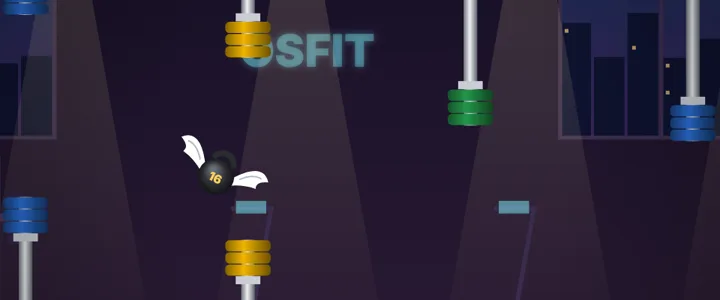
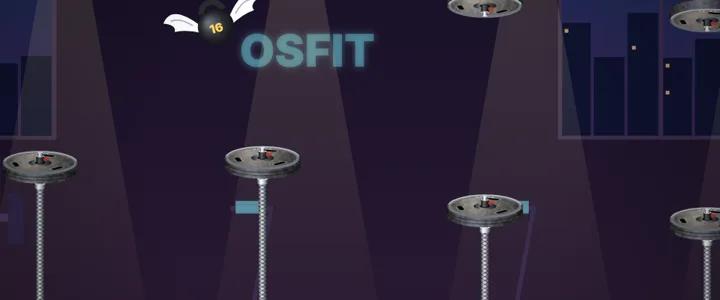
Kettlebell Bird: obstáculos finales (barra moleteada con disco de hierro con agarraderas, luz cálida); el choque coincide con lo que se ve; sin letreros de neón seguidos
Claude-Session: https://claude.ai/code/session_01XsEJr2BEv4DBCCRFhTNCkD

diff --git a/web/src/ui/kettlebellBird.ts b/web/src/ui/kettlebellBird.ts
@@ -1,5 +1,5 @@
 import {
-  ALTO, ANCHO_BARRA, PISO, RADIO, aletear, avanzar, nuevoVuelo, type Vuelo,
+  ALTO, ANCHO_DISCO, ANCHO_TUBO, PISO, RADIO, aletear, avanzar, nuevoVuelo, type Vuelo,
 } from "../kettlebellBird";
 import { conPartida, htmlLista, type ApiJuego, type EnvioPartida, type TablaDiscos } from "./juegoDiscos";
 
@@ -271,7 +271,6 @@ function arrancar(): void {
 
 // ── Dibujo ───────────────────────────────────────────────────────────────────
 
-const COLORES = ["#d6372c", "#2a6fd6", "#f0b400", "#24964a"];
 const mod = (a: number, b: number) => ((a % b) + b) % b;
 /** Un número fijo por posición, para que cada ventana o máquina sea siempre la misma. */
 const ruido = (n: number) => mod(Math.sin(n * 12.9898) * 43758.5453, 1);
@@ -313,7 +312,8 @@ function dibujar(): void {
   const paso1 = 70 * e;
   for (let i = Math.floor(lejos / paso1) - 1; i * paso1 - lejos < W + paso1; i++) {
     const x = i * paso1 - lejos;
-    if (ruido(i) < 0.62) {
+    // Ventanal, o un letrero de neón, pero nunca dos letreros seguidos.
+    if (ruido(i) < 0.62 || ruido(i - 1) >= 0.62) {
       const vx = x + 8 * e, vy = 10 * e, vw = 40 * e, vh = 34 * e;
       const cielo = c.createLinearGradient(0, vy, 0, vy + vh);
       cielo.addColorStop(0, "#1b2a55"); cielo.addColorStop(1, "#3a2457");
@@ -403,12 +403,10 @@ function dibujar(): void {
 
   // Las barras: una barra de acero con sus discos en la punta, colgando del techo y parada en el piso.
   for (const b of vuelo.barras) {
-    const x = b.x * e, w = ANCHO_BARRA * e;
+    const x = b.x * e, w = ANCHO_DISCO * e;
     const arriba = (b.centro - b.hueco / 2) * e, abajo = (b.centro + b.hueco / 2) * e;
-    // El color sale de la altura de su hueco: es fijo para cada barra mientras cruza.
-    const color = COLORES[Math.floor(ruido(Math.round(b.centro * 100)) * 4)] ?? COLORES[0]!;
-    pintarObstaculo(c, x, w, -10, arriba, true, color, e);
-    pintarObstaculo(c, x, w, abajo, piso, false, color, e);
+    pintarBarraConDisco(c, x, w, -10, arriba, true, e);
+    pintarBarraConDisco(c, x, w, abajo, piso, false, e);
   }
 
   // La kettlebell.
@@ -431,19 +429,6 @@ function dibujar(): void {
   const vin = c.createRadialGradient(W / 2, H / 2, Math.min(W, H) * 0.4, W / 2, H / 2, Math.max(W, H) * 0.8);
   vin.addColorStop(0, "rgba(0, 0, 0, 0)"); vin.addColorStop(1, "rgba(0, 0, 0, 0.45)");
   c.fillStyle = vin; c.fillRect(0, 0, W, H);
-}
-
-// TEMPORAL: selector para comparar las propuestas de discos (P1, P2, P3).
-type Estilo = "p1" | "p2" | "p3";
-function estiloObstaculo(): Estilo {
-  try {
-    const v = globalThis.localStorage?.getItem("osfit:kb-barras");
-    return v === "p2" ? "p2" : v === "p3" ? "p3" : "p1";
-  } catch { return "p1"; }
-}
-
-function pintarObstaculo(c: CanvasRenderingContext2D, x: number, w: number, y0: number, y1: number, cuelga: boolean, _color: string, e: number): void {
-  pintarBarraConDiscos(c, x, w, y0, y1, cuelga, e, estiloObstaculo());
 }
 
 /** Una textura de grano (caucho o hierro martelinado), hecha una vez y repetida. */
@@ -637,34 +622,27 @@ function pintarDisco3D(c: CanvasRenderingContext2D, cx: number, cy: number, d: D
 }
 
 /**
- * P · La barra que te gustó con discos nuevos (propuestas P1, P2, P3): la manga sale de la orilla
- * del hueco con el seguro y uno o dos discos grandes, y la barra moleteada sigue hasta el techo o
- * el piso.
+ * El obstáculo (entrenador, 2026-11-24, discos "P2"): la barra olímpica moleteada y, en la punta
+ * del lado del hueco, un disco de hierro fundido con sus tres agarraderas, visto un poco desde
+ * arriba (el de abajo) o desde abajo (el que cuelga), con luz cálida de lámpara. Las medidas son
+ * las de la lógica (`ANCHO_DISCO`, `ANCHO_TUBO`, `DISCO_HASTA`): se ve lo que se choca.
  */
-function pintarBarraConDiscos(c: CanvasRenderingContext2D, x: number, w: number, y0: number, y1: number, cuelga: boolean, e: number, estilo: Estilo): void {
+function pintarBarraConDisco(c: CanvasRenderingContext2D, x: number, w: number, y0: number, y1: number, cuelga: boolean, e: number): void {
   const cx = x + w / 2;
-  const discos: Disco3D[] = estilo === "p2"
-    ? [{ r: w * 0.85, incl: 0.42, grueso: 1.9 * e, material: "hierro", color: "#3b3d42", kg: "20", luz: "calida", agarraderas: true }]
-    : estilo === "p3"
-      ? [
-        { r: w * 0.78, incl: 0.13, grueso: 3.3 * e, material: "bumper", color: "#1f1f24", kg: "20", luz: "contraluz", textoCanto: true },
-        { r: w * 0.78, incl: 0.13, grueso: 3.3 * e, material: "bumper", color: "#1f1f24", kg: "20", luz: "contraluz", textoCanto: true },
-      ]
-      : [{ r: w * 0.85, incl: 0.38, grueso: 2.6 * e, material: "bumper", color: "#2a6fd6", kg: "20", luz: "estudio" }];
-  // Desde la orilla: tapa de la manga, seguro, discos, manga, hombro; luego la barra.
-  const tapa = 0.7 * e, seguro = 1.3 * e, manga = 2.2 * e, hombro = 0.9 * e;
+  const disco: Disco3D = { r: w / 2, incl: 0.3, grueso: 1.9 * e, material: "hierro", color: "#3b3d42", kg: "20", luz: "calida", agarraderas: true };
+  // Desde la orilla del hueco: tapa de la manga, seguro, disco, manga, hombro; luego la barra.
   const dir = cuelga ? -1 : 1;
   let p = cuelga ? y1 : y0;
   const tramo = (h: number) => { const a = cuelga ? p - h : p; const b = cuelga ? p : p + h; p += dir * h; return [a, b] as const; };
-  const [tA, tB] = tramo(tapa);
-  const [sA, sB] = tramo(seguro);
-  const lugares = discos.map((d) => tramo(d.grueso));
-  const [mA, mB] = tramo(manga);
-  const [hA, hB] = tramo(hombro);
+  const [tA, tB] = tramo(0.7 * e);
+  const [sA, sB] = tramo(1.3 * e);
+  const [dA, dB] = tramo(disco.grueso);
+  const [mA, mB] = tramo(2.2 * e);
+  const [hA, hB] = tramo(0.9 * e);
   const barraA = cuelga ? y0 : p, barraB = cuelga ? p : y1;
 
-  // La barra moleteada (igual que antes: la que te gustó).
-  const bw = w * 0.17;
+  // La barra moleteada.
+  const bw = ANCHO_TUBO * e * 0.64;
   c.fillStyle = gradCilindro(c, cx - bw / 2, cx + bw / 2, ["#4a4e55", "#b4b9c0", "#eef0f3", "#33363b"]);
   c.fillRect(cx - bw / 2, barraA, bw, barraB - barraA);
   c.save();
@@ -675,26 +653,22 @@ function pintarBarraConDiscos(c: CanvasRenderingContext2D, x: number, w: number,
     c.beginPath(); c.moveTo(cx + bw / 2, yy); c.lineTo(cx - bw / 2, yy + bw * 0.55); c.stroke();
   }
   c.restore();
-  if (!cuelga) pintarSombra(c, cx, y1, w * 0.5, w * 0.1, 0.6);
+  if (!cuelga) pintarSombra(c, cx, y1, w * 0.3, w * 0.06, 0.6);
 
-  // Del fondo a la cámara: hombro, manga, discos (el más lejano primero), seguro, tapa.
+  // Del fondo a la cámara: hombro, manga, disco, seguro, tapa.
   const caraArriba = !cuelga;
+  const u = ANCHO_TUBO * e;
   const cil = (r: number, a: number, b: number, grad: [string, string, string, string]) =>
     cilindro(c, cx, r, a, b, caraArriba, gradCilindro(c, cx - r, cx + r, grad), (cy) => {
       c.fillStyle = "#e3e6ea"; c.beginPath(); c.ellipse(cx, cy, r, r * INCL, 0, 0, Math.PI * 2); c.fill();
     });
-  cil(w * 0.24, hA, hB, CROMO);
-  cil(w * 0.11, mA, mB, CROMO);
-  for (let k = discos.length - 1; k >= 0; k--) {
-    const d = discos[k]!;
-    const [a, b] = lugares[k]!;
-    // Sombra que deja en el disco de atrás (oclusión).
-    pintarSombra(c, cx, caraArriba ? b : a, d.r * 1.02, d.r * d.incl * 1.1, 0.45);
-    pintarDisco3D(c, cx, caraArriba ? a : b, d, caraArriba);
-  }
-  cil(w * 0.17, sA, sB, ["#0d0e10", "#3a3d44", "#5a5e66", "#08090a"]);
-  c.fillStyle = "#c9302a"; caja2(c, cx + w * 0.14, sA + (sB - sA) * 0.25, w * 0.26, (sB - sA) * 0.42, 2); c.fill();
-  cil(w * 0.11, tA, tB, CROMO);
+  cil(u * 0.45, hA, hB, CROMO);
+  cil(u * 0.21, mA, mB, CROMO);
+  pintarSombra(c, cx, caraArriba ? dB : dA, disco.r * 1.02, disco.r * disco.incl * 1.1, 0.45);
+  pintarDisco3D(c, cx, caraArriba ? dA : dB, disco, caraArriba);
+  cil(u * 0.32, sA, sB, ["#0d0e10", "#3a3d44", "#5a5e66", "#08090a"]);
+  c.fillStyle = "#c9302a"; caja2(c, cx + u * 0.26, sA + (sB - sA) * 0.25, u * 0.5, (sB - sA) * 0.42, 2); c.fill();
+  cil(u * 0.21, tA, tB, CROMO);
 }
 
 function shade(hex: string, f: number): string {

diff --git a/web/src/kettlebellBird.ts b/web/src/kettlebellBird.ts
@@ -19,8 +19,17 @@ export const RADIO = 3.6;
 export const GRAVEDAD = 250;
 export const IMPULSO = -82;
 export const CAIDA_MAXIMA = 130;
-/** Lo grueso de una barra con sus discos. */
-export const ANCHO_BARRA = 9;
+/**
+ * La forma de cada obstáculo, como se ve (entrenador, 2026-11-24, discos "P2"): una barra
+ * delgada (`ANCHO_TUBO`, con su manga y su seguro) y, cerca de la punta, un disco de hierro
+ * ancho (`ANCHO_DISCO`) entre `DISCO_DESDE` y `DISCO_HASTA` desde la orilla del hueco. Se choca
+ * con lo que se ve: el disco solo en su zona, la barra en el resto.
+ */
+export const ANCHO_DISCO = 15;
+export const ANCHO_TUBO = 2.4;
+/** Un poco antes de la orilla: la cara del disco asoma hacia el hueco. */
+export const DISCO_DESDE = -0.3;
+export const DISCO_HASTA = 3.9;
 /** De una barra a la siguiente. */
 export const SEPARACION = 44;
 
@@ -92,6 +101,18 @@ export function choca(cx: number, cy: number, r: number, x: number, y: number, w
   return (cx - px) ** 2 + (cy - py) ** 2 < r * r;
 }
 
+/** ¿Toca la barra de arriba o la de abajo (su tubo o su disco)? */
+export function chocaConBarra(cx: number, cy: number, r: number, b: Barra): boolean {
+  const arriba = b.centro - b.hueco / 2, abajo = b.centro + b.hueco / 2;
+  const tx = b.x + (ANCHO_DISCO - ANCHO_TUBO) / 2;
+  // El disco se angosta hacia su cara (es un cilindro visto en 3/4): su zona es un poco más angosta.
+  const dw = ANCHO_DISCO * 0.88, dx = b.x + (ANCHO_DISCO - dw) / 2, dh = DISCO_HASTA - DISCO_DESDE;
+  return choca(cx, cy, r, tx, -50, ANCHO_TUBO, arriba + 50)
+    || choca(cx, cy, r, tx, abajo, ANCHO_TUBO, PISO - abajo)
+    || choca(cx, cy, r, dx, arriba - DISCO_HASTA, dw, dh)
+    || choca(cx, cy, r, dx, abajo + DISCO_DESDE, dw, dh);
+}
+
 /** Avanza `dt` segundos. Devuelve "punto" al pasar una barra y "fin" al chocar. */
 export function avanzar(v: Vuelo, dt: number): "punto" | "fin" | null {
   if (v.terminada) return null;
@@ -102,7 +123,7 @@ export function avanzar(v: Vuelo, dt: number): "punto" | "fin" | null {
   const vel = velocidad(v.puntos);
   v.recorrido += vel * dt;
   for (const b of v.barras) b.x -= vel * dt;
-  if (v.barras.length > 0 && v.barras[0]!.x + ANCHO_BARRA < -10) v.barras.shift();
+  if (v.barras.length > 0 && v.barras[0]!.x + ANCHO_DISCO < -10) v.barras.shift();
   const ultima = v.barras[v.barras.length - 1];
   if (!ultima || ultima.x < v.vistaAncho + 10) {
     v.barras.push(nuevaBarra((ultima?.x ?? v.vistaAncho) + SEPARACION, ultima, v.puntos, v.azar));
@@ -114,12 +135,11 @@ export function avanzar(v: Vuelo, dt: number): "punto" | "fin" | null {
   }
   let evento: "punto" | null = null;
   for (const b of v.barras) {
-    const arriba = b.centro - b.hueco / 2, abajo = b.centro + b.hueco / 2;
-    if (choca(v.x, v.y, RADIO * 0.88, b.x, -50, ANCHO_BARRA, arriba + 50) || choca(v.x, v.y, RADIO * 0.88, b.x, abajo, ANCHO_BARRA, PISO - abajo)) {
+    if (chocaConBarra(v.x, v.y, RADIO * 0.88, b)) {
       v.terminada = true;
       return "fin";
     }
-    if (!b.pasada && b.x + ANCHO_BARRA < v.x - RADIO) {
+    if (!b.pasada && b.x + ANCHO_DISCO < v.x - RADIO) {
       b.pasada = true;
       v.puntos++;
       evento = "punto";

diff --git a/web/src/kettlebellBird.test.ts b/web/src/kettlebellBird.test.ts
@@ -1,5 +1,5 @@
 import { describe, expect, it } from "vitest";
-import { ANCHO_BARRA, IMPULSO, PISO, RADIO, aletear, avanzar, choca, hueco, nuevoVuelo, salto, velocidad } from "./kettlebellBird";
+import { ANCHO_DISCO, ANCHO_TUBO, DISCO_HASTA, IMPULSO, PISO, RADIO, aletear, avanzar, choca, chocaConBarra, hueco, nuevoVuelo, salto, velocidad } from "./kettlebellBird";
 
 const fijo = () => 0.5; // el hueco siempre a media altura
 
@@ -38,7 +38,7 @@ describe("Kettlebell Bird", () => {
     expect(puntos).toBe(3);
     const w = nuevoVuelo(60, fijo);
     const b = w.barras[0]!;
-    w.y = b.centro - b.hueco / 2 - 1; w.x = b.x + ANCHO_BARRA / 2; w.vy = 0;
+    w.y = b.centro - b.hueco / 2 - 1; w.x = b.x + ANCHO_DISCO / 2; w.vy = 0;
     expect(avanzar(w, 0.001)).toBe("fin");
   });
 
@@ -64,6 +64,19 @@ describe("Kettlebell Bird", () => {
         expect(b.centro + b.hueco / 2).toBeLessThanOrEqual(PISO - 8 + 1e-9);
       }
     }
+  });
+
+  it("se choca con lo que se ve: el disco ancho cerca de la orilla, la barra delgada en el resto", () => {
+    const b = { x: 20, centro: 50, hueco: 30, pasada: false };
+    const arriba = b.centro - b.hueco / 2;
+    // Junto a la barra, lejos del disco: no toca (antes la caja era del ancho del disco en todo el largo).
+    expect(chocaConBarra(b.x + 1, arriba - 12, 2, b)).toBe(false);
+    // Sobre la barra misma: toca.
+    expect(chocaConBarra(b.x + ANCHO_DISCO / 2, arriba - 12, 1, b)).toBe(true);
+    // Al lado del eje pero a la altura del disco: toca.
+    expect(chocaConBarra(b.x + ANCHO_DISCO / 2 - ANCHO_TUBO * 2, arriba - DISCO_HASTA / 2, 1, b)).toBe(true);
+    // En el hueco: libre.
+    expect(chocaConBarra(b.x + ANCHO_DISCO / 2, b.centro, 3.6, b)).toBe(false);
   });
 
   it("choca: círculo contra rectángulo", () => {
